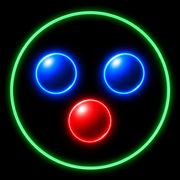
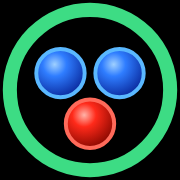
changed ico -mk2

diff --git a/docs/index.html b/docs/index.html
@@ -5,8 +5,9 @@
 <meta name="viewport" content="width=device-width, initial-scale=1">
 <title>NN Feature Genealogy</title>
 <meta name="description" content="Version history of the MSVtx ABCD NN1/NN2 input features (barrel / endcap) - browse and download as .txt, .csv or .py.">
-<link rel="icon" type="image/png" href="assets/favicon_64.png">
-<link rel="apple-touch-icon" href="assets/badge_180.png">
+<link rel="icon" href="favicon.ico" sizes="16x16 32x32 48x48 64x64">
+<link rel="icon" type="image/svg+xml" href="favicon.svg">
+<link rel="apple-touch-icon" sizes="180x180" href="assets/apple-touch-icon.png">
 <meta property="og:type" content="website">
 <meta property="og:site_name" content="UA ATLAS">
 <meta property="og:title" content="NN Feature Genealogy">

diff --git a/tools/render_icons.py b/tools/render_icons.py
@@ -1,0 +1,51 @@
+# -*- coding: utf-8 -*-
+"""
+render_icons.py -- docs/favicon.svg -> favicon.ico + PNG icon set (transparent)
+
+    python tools/render_icons.py      (needs playwright + pillow)
+"""
+import asyncio, io
+from pathlib import Path
+from PIL import Image
+
+ROOT = Path(__file__).resolve().parents[1]
+SVG = ROOT / "docs" / "favicon.svg"
+A = ROOT / "docs" / "assets"
+SIZES = [16, 32, 48, 64, 180, 192, 512]
+
+
+async def render():
+    from playwright.async_api import async_playwright
+    svg = SVG.read_text(encoding="utf-8")
+    out = {}
+    async with async_playwright() as p:
+        b = await p.chromium.launch()
+        for i, s in enumerate(SIZES, 1):
+            pg = await b.new_page(viewport={"width": s, "height": s})
+            await pg.set_content(f'<html><body style="margin:0;background:transparent">'
+                                 f'<div style="width:{s}px;height:{s}px">{svg.replace("<svg ", f"<svg width={s} height={s} ")}</div></body></html>')
+            png = await pg.screenshot(omit_background=True, clip={"x": 0, "y": 0, "width": s, "height": s})
+            out[s] = Image.open(io.BytesIO(png)).convert("RGBA")
+            print(f"[{i}/{len(SIZES)}] rendered {s}px", flush=True)
+            await pg.close()
+        await b.close()
+    return out
+
+
+def main():
+    im = asyncio.run(render())
+    A.mkdir(parents=True, exist_ok=True)
+    for s in (16, 32, 48, 64):
+        im[s].save(A / f"favicon_{s}.png", optimize=True)
+    im[64].save(ROOT / "docs" / "favicon.ico", sizes=[(16, 16), (32, 32), (48, 48), (64, 64)],
+                append_images=[im[16], im[32], im[48]])
+    # apple-touch: iOS ignores transparency (fills black), so flatten on black explicitly
+    bg = Image.new("RGBA", (180, 180), (0, 0, 0, 255)); bg.alpha_composite(im[180])
+    bg.convert("RGB").save(A / "apple-touch-icon.png", optimize=True)
+    im[192].save(A / "icon_192.png", optimize=True)
+    im[512].save(A / "icon_512.png", optimize=True)
+    print("[done] favicon.ico (16/32/48/64), favicon_*.png, apple-touch-icon, icon_192/512")
+
+
+if __name__ == "__main__":
+    main()

diff --git a/README.md b/README.md
@@ -22,8 +22,9 @@ sources/    original files, never edited
 tools/      build.py: ingest -> verify -> lock -> emit (with progress prints)
 registry/   <mk>.json, generated and committed (git diff is the audit trail)
 docs/       index.html + generated data.js + copies of sources (the site)
-docs/assets badge sizes, favicon, social_card.png
-assets/     badge.png (full-res original)
+docs/assets header badge, favicon PNGs (16-64), apple-touch-icon, icon_192/512, social_card.png
+docs/favicon.svg  vector icon (master) -> python tools/render_icons.py -> favicon.ico + PNGs
+assets/     badge.png + favicon_src.png (full-res originals)
 tools/card/ social_card.html + render_card.py (re-render the card after edits)
 ```
 
